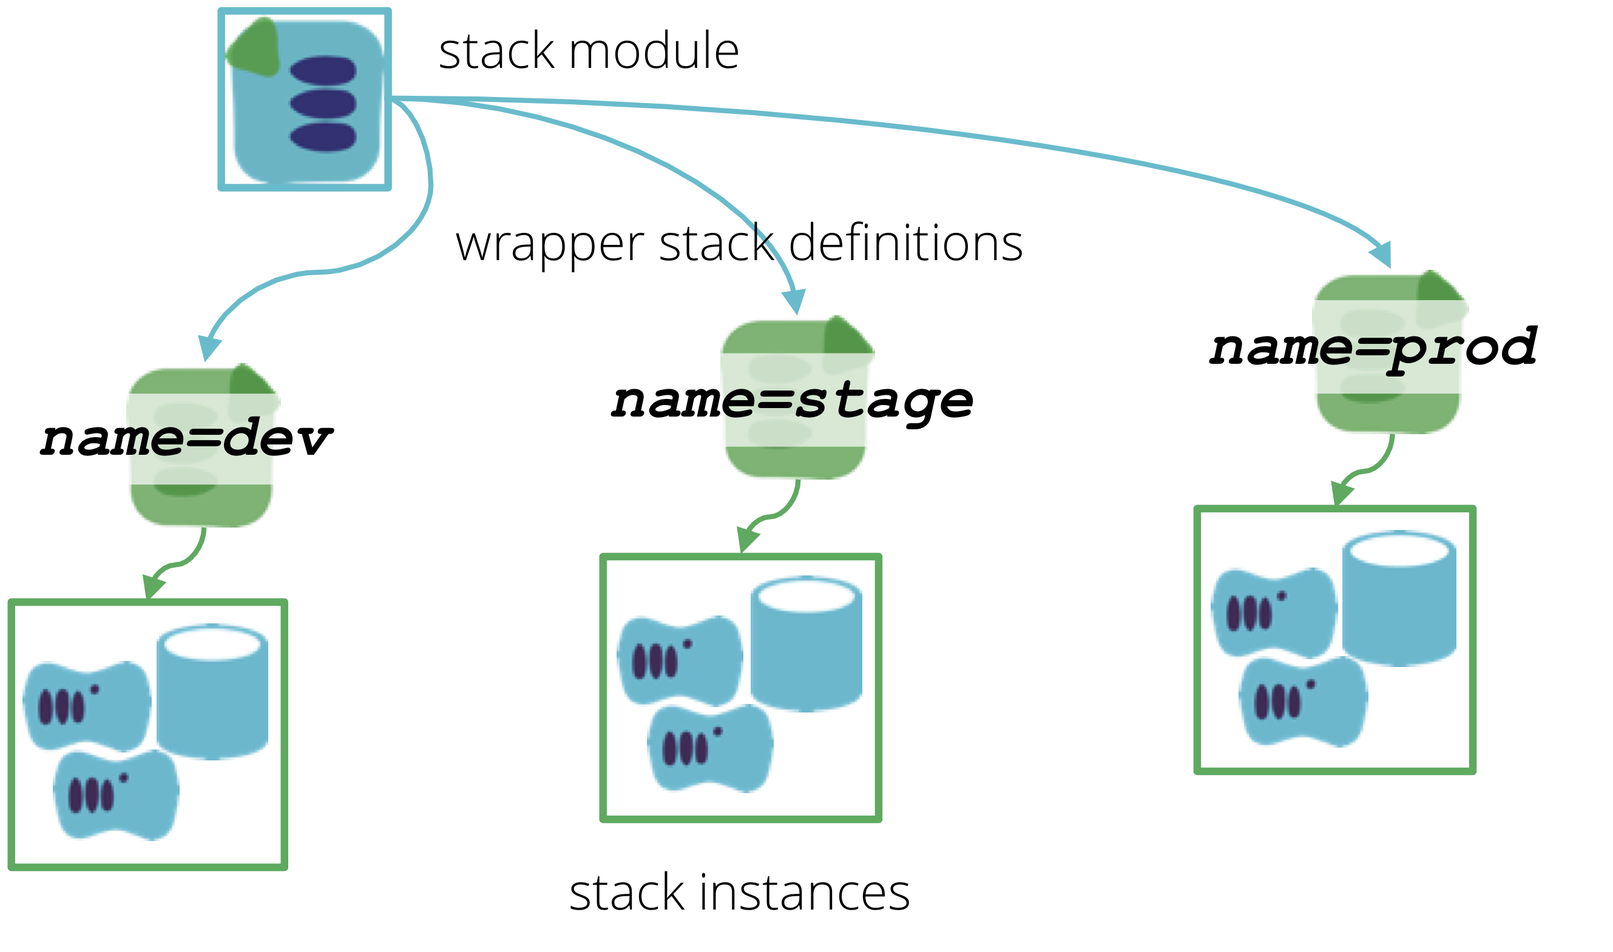
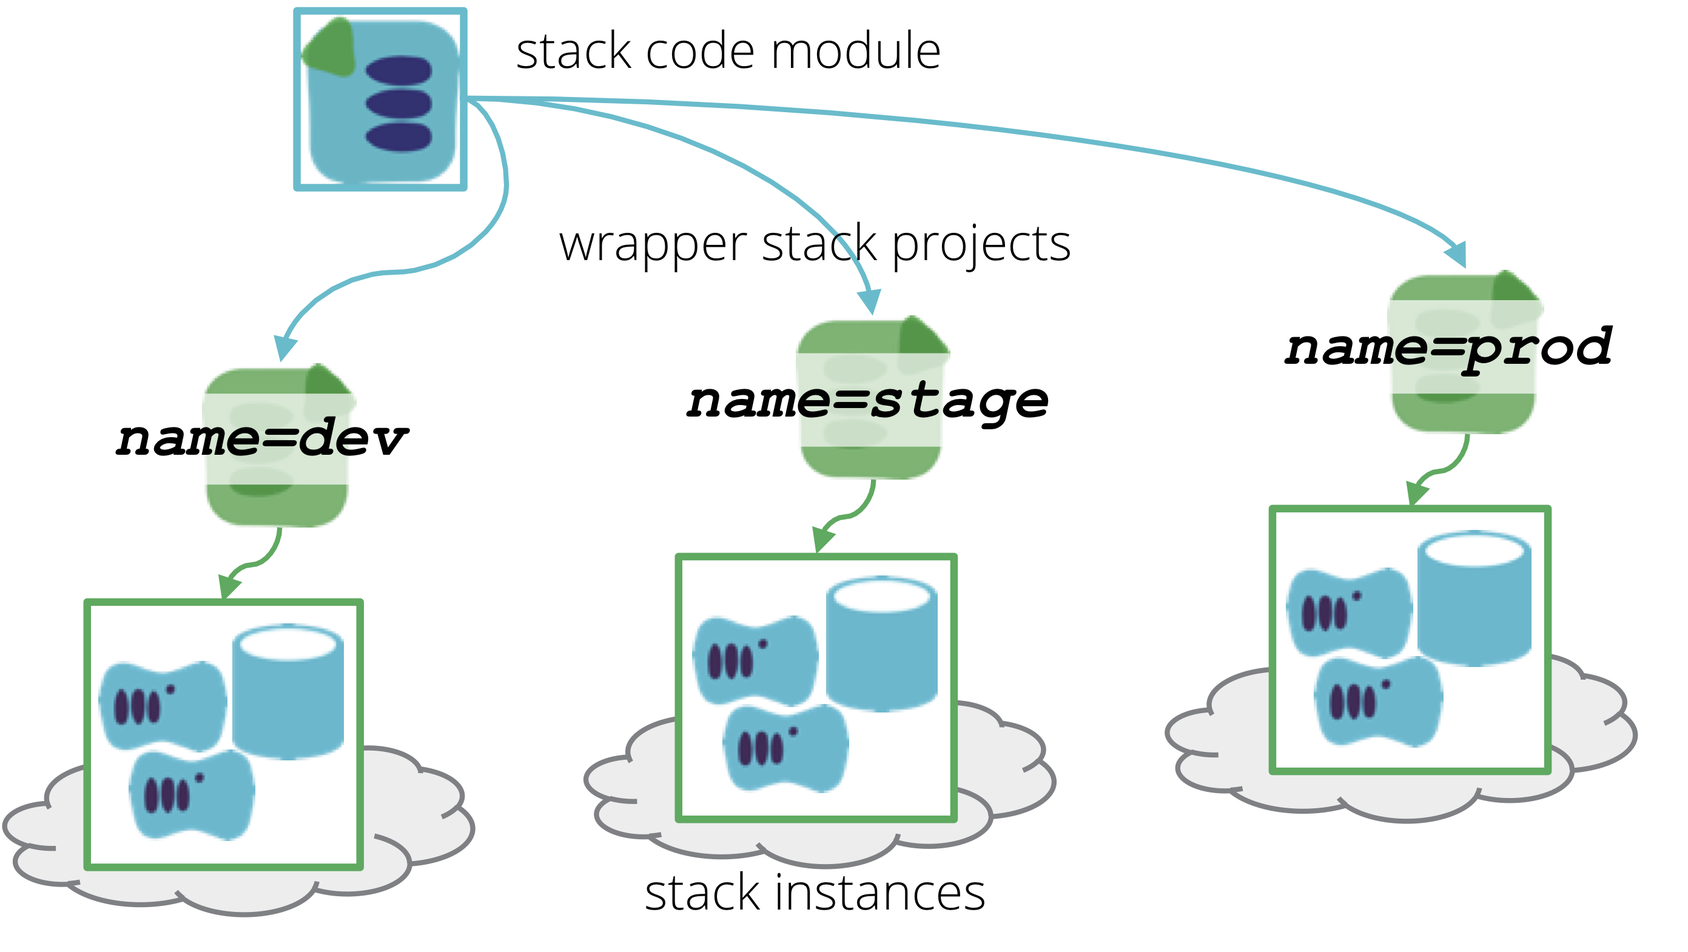
Fleshing out configuration patterns

diff --git a/_patterns/stack-configuration/index.md b/_patterns/stack-configuration/index.md
@@ -6,18 +6,21 @@ category: Stack Configuration Patterns
 section: true
 order: 20
 published: true
-status: todo
+status: review
 ---
 
-Defining an [infrastructure stack](/patterns/core-stack/) as code enables the creation of multiple instances of the stack. There is usually a need to define some aspects of the stack differently for different instances - at the least, different names, identifiers, and/or tags are needed to distinguish the different instances. There are different techniques for setting configuration for instances of a stack.
+Defining an [infrastructure stack](/patterns/core-stack/) as code enables the creation of multiple instances of the stack. Some aspects of the stack may need to vary for different instances of the stack - at the least, different names, identifiers, and/or tags are needed to distinguish the different instances. There are different techniques for setting configuration for instances of a stack.
 
 
-![There is usually a need to define some aspects of a stack differently for different instances](images/stack-parameters.png)
+<figure>
+  <img src="images/stack-parameters.png" alt="Some aspects of a stack may need to vary for different instances of the stack"/>
+  <figcaption>Some aspects of a stack may need to vary for different instances of the stack.</figcaption>
+</figure>
 
 
 ## Typical uses for configuring stack instances differently
 
-As described in the [core patterns](/patterns/core-stack), there are two main patterns used to create multiple stack instances from a single stack definition. One is a [template stack](/patterns/core-stack/template-stack.html), where all of the instances created from a stack definition are intended to be highly consistent. There should be very little variation between them. The common case of this is when creating stack instances to test software - the same stack definition is used to create instances for development, test, and production, so that the software is tested in an environment that is consistent with production.
+As described in the [core patterns](/patterns/core-stack), there are two main patterns used to create multiple stack instances from a single stack project. One is a [template stack](/patterns/core-stack/template-stack.html), where all of the instances created from a stack project are intended to be highly consistent. There should be very little variation between them. The common case of this is when creating stack instances to test software - the same stack source code is used to create instances for development, test, and production, so that the software is tested in an environment that is consistent with production.
 
 
 <figure>
@@ -26,7 +29,7 @@ As described in the [core patterns](/patterns/core-stack), there are two main pa
 </figure>
 
 
-The other pattern is the [library stack](/patterns/core-stack/library-stack.html), where the stack definition provides the core configuration for the stack's infrastructure, but each instance is customized or extended to serve a different purpose. An example of this is defining a stack that creates a database cluster, but provisioning instances with different configurations for a product database, user database, and search database.
+The other pattern is the [library stack](/patterns/core-stack/library-stack.html), where the stack project provides the core configuration for the stack's infrastructure, but each instance is customized or extended to serve a different purpose. An example of this is a stack that creates a database cluster, but separate instances are each customized to be used as a product database, a user database, and a search database.
 
 
 <figure>
@@ -40,9 +43,15 @@ Because instances of a template stack tend to have little variation - in fact, i
 Library stacks, on the other hand, often need deeper customization. This might involve providing more complex data structures, large blobs of data (e.g. passing scripts to be executed), or even adding additional infrastructure code (e.g. adding a terraform file to the project before applying it).
 
 
+
 ## Stack configuration mechanisms
 
-In order to create instances of a parameterized stack, values need to be provided to the stack management tool (e.g. Terraform, CloudFormation, etc.). For example, consider a stack which defines a server cluster and its networking:
+In order to create instances of a parameterized stack, values need to be provided to the stack management tool (e.g. Terraform, CloudFormation, etc.).
+
+
+### Example stack parameters
+
+As an example, consider a stack which defines a web server cluster and its networking:
 
 
 ~~~ console
@@ -63,15 +72,62 @@ variable "cluster_minimum" { default = "1" }
 variable "cluster_maximum" { default = "1" }
 ~~~
 
+Given three environments, *test*, *staging*, and *production*, these variables may need to be set to different values:
 
 
+| Stack Instance | environment_id | cluster_minimum | cluster_maximum |
+|-------|--------|---------|
+| web_test | test | 1 | 1 |
+| web_staging | staging | 1 | 2 |
+| web_production | production | 2 | 5 |
 
-a mechanism is needed to provide parameter values. Some options include [Stack Parameter Files](stack-parameter-files.html), [Pipeline-defined parameters](pipeline-defined-parameters.html), and [Parameter Registry](stack-parameter-registry.html).
 
-Another approach is to define the stack as a module, and then use a [Wrapper Stack](wrapper-stack.html) to define parameter values for each instance.
+### Stack configuration patterns
+
+
+A mechanism is needed to set values for these variables when creating and updating a stack. There are a few different patterns to consider. The simplest is to [pass the values on the command line](command-line-parameters.html). This is easy to do, but it's also easy to make mistakes with it.
+
+~~~ console
+terraform apply \
+    -var 'environment_id=test' \
+    -var 'cluster_minimum=1' \
+    -var 'cluster_maximum=1'
+~~~
+
+
+An alternative is to define parameter values in [Parameter Files](stack-parameter-files.html) checked into source control, with one file for each environment. This ensures that the values are captured and are applied consistently.
+
+~~~ console
+   ├── src/
+   │   ├── variables.tf
+   │   ├── cluster.tf
+   │   └── networking.tf
+   ├── environments
+   │   ├── test.tfvars
+   │   ├── staging.tfvars
+   │   └── production.tfvars
+   └── test/
+~~~
+
+
+A variation of parameter files is a [wrapper stack](wrapper-stack.html). With this approach, the code that defines an environment stack is kept in a [stack code module](/patterns/stack-structures/stack-code-module.html). A stack project is then created for each stack instance, whose purpose is to pass values to the module code for the specific instance.
+
+When infrastructure code is applied to environments using a Continuous Delivery Pipeline, [values can be defined in pipeline job configuration](pipeline-defined-parameters.html). Each stage which applies the stack code to a given environment includes configuration values for that environment, which is then passed to the command which applies to the code.
+
+Stack instance configuration values can also be set in a [Parameter Registry](stack-parameter-registry.html). The stack management tool, or the stack source code, can then retrieve the relevant values for the instance.
 
 
 ## Related topics
 
+### Stack integration patterns
+
 When a system's infrastructure is divided across multiple stacks, configuration usually needs to be passed from one stack to another. The mechanisms for doing this are closely related to those for per-instance configuration, although there are additional things to consider. This is discussed under [stack integration](/patterns/stack-integration/).
+
+
+### Stack orchestration tools
+
+Infrastructure projects often become complex in the number of different stack types, stack instances, and configuration options that are managed. Most stack management tools (such as Terraform, etc.) are designed around the use case of running for one stack instance of a project. Running the tool for multiple projects requires more orchestration, so teams inevitably write [scripts of various shapes and sizes to orchestrate this](/patterns/stack-orchestration-tools/).
+
+
+
 

diff --git a/_patterns/stack-configuration/stack-parameter-files.md b/_patterns/stack-configuration/stack-parameter-files.md
@@ -1,14 +1,111 @@
 ---
 layout: pattern
-title:  "Stack Parameter Files"
+title:  "Stack Parameter Files Pattern"
 date:   2019-01-01 16:20:00
 category: Stack Configuration Patterns
 order: 22
-published: false
-status: todo
+published: true
+status: review
 ---
 
-A very
+Values can be provided to instances of [template stacks](/patterns/core-stack/template-stack.html) by putting them into files, checked into version control.
 
-Provide values to instances of [parameterized stacks](parameterized-stack.adoc) by putting them into files, checked into version control. Usually the same project as the stack definition.
+[Template stacks](/patterns/core-stack/template-stack.html) typically define parameters which can be set differently for different instances of the stack. For example, a stack that is used to create a web server cluster may have different values for the sizing of the cluster in different environments:
+
+
+| Stack Instance | environment_id | cluster_minimum | cluster_maximum |
+|-------|--------|---------|
+| web_test | test | 1 | 1 |
+| web_staging | staging | 1 | 2 |
+| web_production | production | 2 | 5 |
+
+
+These can be defined in stack parameter files, typically one file for each stack instance:
+
+
+~~~ console
+   ├── src/
+   │   ├── variables.tf
+   │   ├── cluster.tf
+   │   └── networking.tf
+   ├── environments
+   │   ├── test.tfvars
+   │   ├── staging.tfvars
+   │   └── production.tfvars
+   └── test/
+~~~
+
+
+The parameter file for an environment then defines the values to use for the relevant stack instance:
+
+
+~~~ properties
+environment_id  = test
+cluster_minimum = 1
+cluster_maximum = 1
+~~~
+
+
+The parameter file for the environment is passed to the stack management tool when running it to provision or update the relevant stack instance:
+
+~~~ console
+terraform apply -var-file=../environments/test.tfvars
+~~~
+
+
+## Benefits and drawbacks of parameter files
+
+Creating environment parameter files for a stack is straightforward and easy to understand. Because the file is committed to the source code repository, it is easy to see what values are used for any given environment ("what is the maximum cluster size for production?"), to trace the history for debugging ("when did the maximum cluster size change?"), and for auditing ("who changed the maximum cluster size?").
+
+There are some limitations with parameter files. It increases the work needed to create a new environment, particularly for dynamically created and one-off environments. Although many people are used to having a static set of environments, an advantage of using dynamic cloud-type platforms is that it is easy to spin up new environments on demand, for example for development and testing.
+
+When environments are split into multiple infrastructure stacks, managing the configuration for all of the stacks in all of the environment can become messy. There are two common ways of arranging parameter files. One is to have all of the environment files for a given stack together with the stack code:
+
+
+~~~ console
+   ├── web
+   │   ├── infra
+   │   │   ├── cluster.tf
+   │   │   └── networking.tf
+   │   └──environments
+   │       ├── test.tfvars
+   │       ├── staging.tfvars
+   │       └── production.tfvars
+   └── app1
+       ├── infra
+       │   ├── server.tf
+       │   └── networking.tf
+       └──environments
+           ├── test.tfvars
+           ├── staging.tfvars
+           └── production.tfvars
+~~~
+
+
+The other is to centralize the configuration for all of the stacks:
+
+
+~~~ console
+   ├── web
+   │   ├── cluster.tf
+   │   └── networking.tf
+   ├── app1
+   │   ├── server.tf
+   │   └── networking.tf
+   └── environments
+       ├── test
+       │   ├── web.tfvars
+       │   └── app.tfvars
+       ├── staging
+       │   ├── web.tfvars
+       │   └── app.tfvars
+       └── production
+           ├── web.tfvars
+           └── app.tfvars
+~~~
+
+
+Both approaches can become messy and confusing, from different directions. When you need to make a change to all of the things in an environment, making changes to configuration files across dozens of stack projects is painful. When you need to change the configuration for a single stack across the various environments it's in, trawling through a tree full of configuration for dozens of other stacks is also not fun.
+
+Another drawback of stack parameter files comes when a stack is managed through a Continuous Delivery pipeline. In this case, making a change to the configuration for production involves committing a change to the parameter file in the stack's source code, and then waiting for the update to flow through the full pipeline to production. This can be painful, particularly for changes which are needed quickly.
 

diff --git a/_patterns/stack-configuration/wrapper-stack.md b/_patterns/stack-configuration/wrapper-stack.md
@@ -3,24 +3,27 @@ layout: pattern
 title:  "Wrapper Stack Pattern"
 date:   2019-01-01 16:20:00
 category: Stack Configuration Patterns
-order: 25
+order: 23
 published: true
 status: review
 ---
 
-A Wrapper Stack is an [infrastructure stack definition](/patterns/core-stack/) which is used to import stack code from a module, and pass configuration values for a specific stack instance. This is essentially a mechanism to [configure stacks].
+A Wrapper Stack is an [infrastructure stack project](/patterns/core-stack/) which is used to import stack code from a module, and pass configuration values for a specific stack instance. This is essentially a mechanism to [configure stacks](/patterns/stack-configuration/).
 
 
-![A Wrapper Stack is an infrastructure stack definition which is used to import stack code from a module, and pass configuration values for a specific stack instance.](images/wrapper-stack.png)
+<figure>
+  <img src="images/wrapper-stack.png" alt="A Wrapper Stack is an infrastructure stack project which is used to import stack code from a module, and pass configuration values for a specific stack instance"/>
+  <figcaption>A Wrapper Stack is an infrastructure stack project which is used to import stack code from a module, and pass configuration values for a specific stack instance.</figcaption>
+</figure>
 
 
 ## Implementation
 
-The implementation of wrapper stacks tend to look like [singleton stacks](/patterns/core-stack/singleton-stack.html), in that each stack instance has its own stack definition. The difference is that the per-instance wrapper stack has very little code in it.
+The implementation of wrapper stacks tend to look like [singleton stacks](/patterns/core-stack/singleton-stack.html), in that each stack instance has its own stack source code project. The difference is that the per-instance wrapper stack project has very little code in it.
 
-The code that defines the infrastructure elements in the stack instances is maintained in a module, so there is a single copy of the code used by all instances, as with a [template stack](/patterns/core-stack/template-stack.html). The wrapper stack definition itself contains only configuration parameters for the specific instance of the stack. So this pattern can be seen as an alternative way to implement a template stack.§
+The code that defines the infrastructure elements for the stack is maintained in a module, so there is a single copy of the code shared across all instances, as with a [template stack](/patterns/core-stack/template-stack.html). The wrapper stack project for each instance contains only configuration parameters for that specific instance of the stack. So this pattern can be seen as an alternative way to implement a template stack.
 
-In some cases, wrapper stacks may be used to customize a core stack definition to a wider extent than passing configuration parameters, essentially turning into the [library stack pattern](/patterns/core-stack/library-stack.html). This may be appropriate, as long as the intention is for each of the different stack instances to be used for different purposes.
+In some cases, wrapper stacks may be used to customize a core stack project to a wider extent than passing configuration parameters, essentially turning into the [library stack pattern](/patterns/core-stack/library-stack.html). This may be appropriate, as long as the intention is for each of the different stack instances to be used for different purposes.
 
 When the instances are intended to be duplicates of the same infrastructure, as with environments used for testing and delivering applications, this kind of variation between instances tends to create inconsistency across environments, diluting their value for accurate replication. In these cases, each wrapper stack should be kept minimal, used strictly as a configuration mechanism rather than a way to extend or alter the core stack structure.
 

diff --git a/_patterns/core-stack/library-stack.md b/_patterns/core-stack/library-stack.md
@@ -77,12 +77,12 @@ search-service-stack-full/
 
 Generally speaking, few (if any) infrastructure stack tools support this structure directly. It is generally implemented by teams using [stack orchestration tools](/patterns/stack-orchestration-tools/).
 
-Another way to implement a library stack is through [stack modules](/patterns/stack-structures/stack-module.html). The main code is defined in a module, which is imported into a stack project which includes code to add the customizations.
+Another way to implement a library stack is through [stack modules](/patterns/stack-structures/stack-code-module.html). The main code is defined in a module, which is imported into a stack project which includes code to add the customizations.
 
 
 ## How stack modules relate to library stacks
 
-A [stack module](/patterns/stack-structures/stack-module.html) is infrastructure code that is packaged to be re-used by multiple stack projects. For example, a module may contain code that defines a block storage device (a mountable hard drive, such as an EBS volume on AWS). A stack project's code can reference this module, probably passing some parameters, to provision an EBS volume.
+A [stack module](/patterns/stack-structures/stack-code-module.html) is infrastructure code that is packaged to be re-used by multiple stack projects. For example, a module may contain code that defines a block storage device (a mountable hard drive, such as an EBS volume on AWS). A stack project's code can reference this module, probably passing some parameters, to provision an EBS volume.
 
 Stack modules are mechanisms provided by specific stack management tools. Terraform has [modules](https://www.terraform.io/docs/modules/index.html), Cloudformation has [nested stacks](https://aws.amazon.com/blogs/devops/use-nested-stacks-to-create-reusable-templates-and-support-role-specialization/), etc.
 

diff --git a/_patterns/core-stack/template-stack.md b/_patterns/core-stack/template-stack.md
@@ -46,7 +46,7 @@ It is a red flag when a parameter is used as a conditional that decides whether 
 
 Some teams use the [singleton stack anti-pattern](singleton-stack.html) to manage multiple instances of a stack. This involves creating a new copy of the stack code for each new environment or other instance. While this is a straightforward approach to implement, it makes it difficult to keep each instance consistent.
 
-A variation of the singleton stack is the [wrapper stack pattern]. Like the singleton stack, there is a separate copy of the stack code for each stack instance. However, the bulk of the infrastructure code is contained in a [stack module](/patterns/stack-structures/stack-module.html), a library which is imported into the stack project. This way the code is declared once - in the module - and re-used across each stack instance. Each stack project is effectively used as a mechanism to define parameter values for one stack instance.
+A variation of the singleton stack is the [wrapper stack pattern]. Like the singleton stack, there is a separate copy of the stack code for each stack instance. However, the bulk of the infrastructure code is contained in a [stack module](/patterns/stack-structures/stack-code-module.html), a library which is imported into the stack project. This way the code is declared once - in the module - and re-used across each stack instance. Each stack project is effectively used as a mechanism to define parameter values for one stack instance.
 
 
 ## Testing infrastructure stack code

diff --git a/_patterns/stack-configuration/command-line-parameters.md b/_patterns/stack-configuration/command-line-parameters.md
@@ -1,9 +1,39 @@
 ---
 layout: pattern
-title:  "Commandline Stack Parameters"
+title:  "Commandline Stack Parameters Pattern"
 date:   2019-01-01 16:20:00
 category: Stack Configuration Patterns
 order: 21
-published: false
-status: todo
+published: true
+status: review
 ---
+
+The simplest way to provide values for a [stack instance](/patterns/core-stack/) is to pass the values on the command line.
+
+[Template stacks](/patterns/core-stack/template-stack.html) typically define parameters which can be set differently for different instances of the stack. For example, a stack that is used to create a web server cluster may have different values for the sizing of the cluster in different environments:
+
+
+| Stack Instance | environment_id | cluster_minimum | cluster_maximum |
+|-------|--------|---------|
+| web_test | test | 1 | 1 |
+| web_staging | staging | 1 | 2 |
+| web_production | production | 2 | 5 |
+
+
+
+With this pattern, these values are simply passed on the commandline when running the stack management tool. For example:
+
+
+~~~ console
+terraform apply \
+    -var 'environment_id=test' \
+    -var 'cluster_minimum=1' \
+    -var 'cluster_maximum=1'
+~~~
+
+
+The challenge with this is that it requires the person running the command to remember which values to pass, and is prone to errors.
+
+There are a number of alternative patterns for [configuring stacks](/patterns/stack-configuration/) that may be considered to improve on this.
+
+

diff --git a/_patterns/stack-structures/index.md b/_patterns/stack-structures/index.md
@@ -19,4 +19,4 @@ In the other direction, multiple services are run in a single [multi-service sta
 
 [Shared nothing stacks] take the single service pattern to the extreme of ensuring that stacks do not have dependencies on other stacks. More commonly, stacks do have dependencies, for example a service stack's infrastructure may use networking structures managed by another stack. [Stack integration patterns] is an important topic in infrastructure design.
 
-It is common to simplify infrastructure design by having a stack provide infrastructure used by other stacks. Another technique is to share common infrastructure code as a [stack module](stack-module.html), imported into multiple stack projects.
+It is common to simplify infrastructure design by having a stack provide infrastructure used by other stacks. Another technique is to share common infrastructure code as a [stack module](stack-code-module.html), imported into multiple stack projects.

diff --git a/_patterns/stack-configuration/pipeline-defined-parameters.md b/_patterns/stack-configuration/pipeline-defined-parameters.md
@@ -3,7 +3,7 @@ layout: pattern
 title:  "Pipeline-Defined Parameters"
 date:   2019-01-01 16:20:00
 category: Stack Configuration Patterns
-order: 23
+order: 24
 published: false
 status: todo
 ---

diff --git a/_patterns/stack-configuration/stack-parameter-registry.md b/_patterns/stack-configuration/stack-parameter-registry.md
@@ -3,7 +3,7 @@ layout: pattern
 title:  "Stack Parameter Registry"
 date:   2019-01-01 16:20:00
 category: Stack Configuration Patterns
-order: 24
+order: 25
 published: false
 status: todo
 ---
